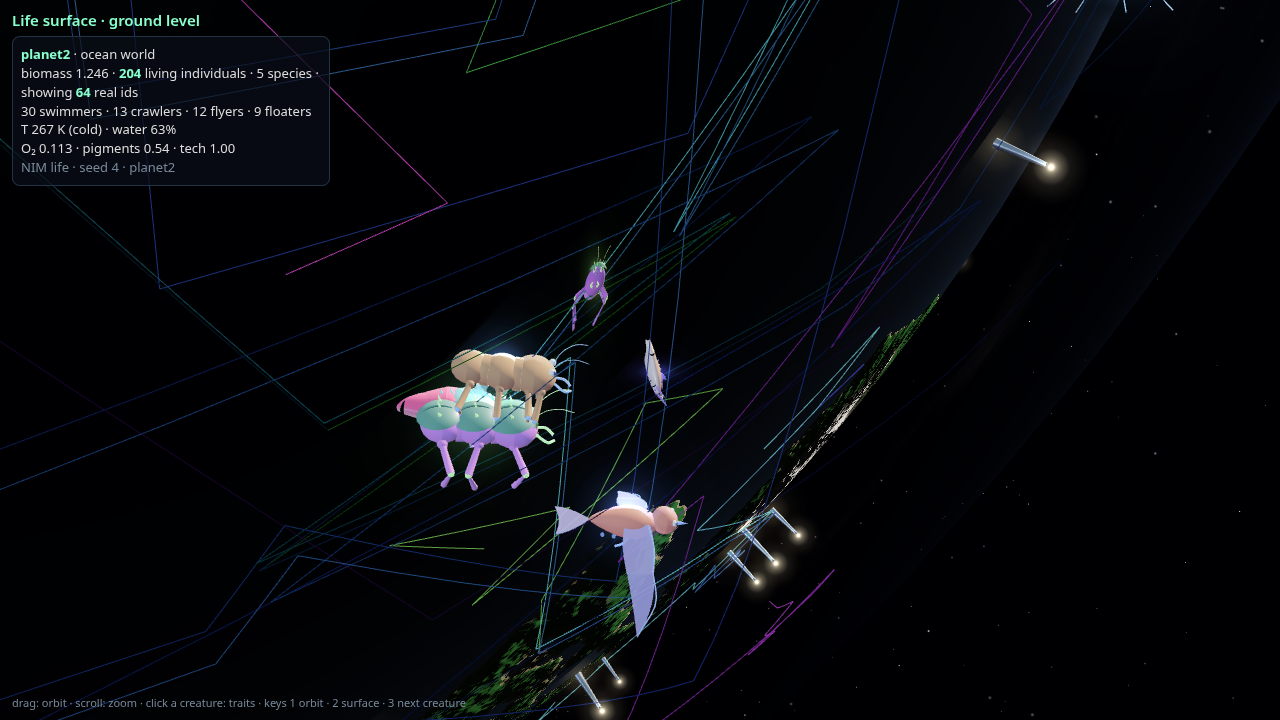
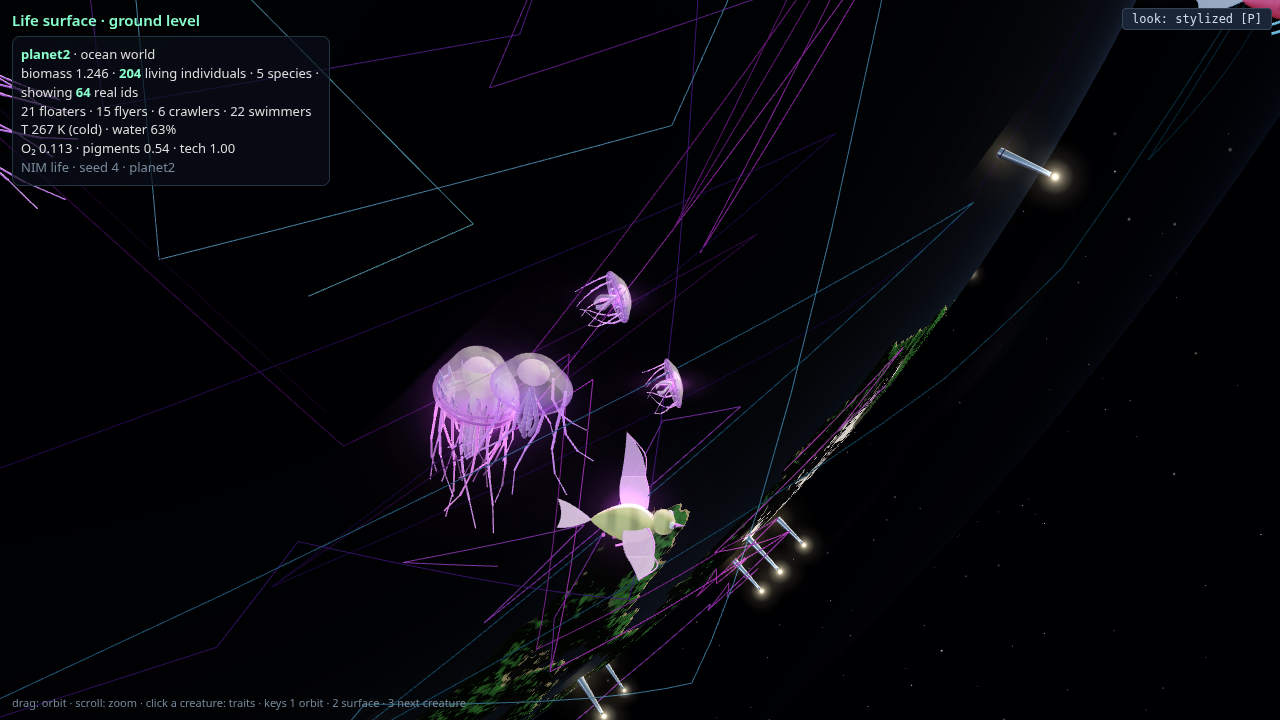
viewer: richer phenotypes + togglable photoreal look

diff --git a/universe/viewer_src/creature_mesh.js b/universe/viewer_src/creature_mesh.js
@@ -3,7 +3,25 @@
 // plan-specific materials (wet swimmers, dusty crawlers, membranous flyers, translucent floaters), secondary motion, blob contact shadows.
 window.NIMC=(function(){
 const V3=THREE.Vector3, TAU=Math.PI*2, col=a=>new THREE.Color(...a);
-let GT=null, ST=null;
+let GT=null, ST=null, LOOK=((typeof location!=='undefined'&&new URLSearchParams(location.search).get('look'))==='photo')?'photo':'stylized', Q=1, MO={}, DT={};
+// morph defaults (old reports without c.morph render exactly as Phase A-ish proportions)
+const MD={elong:1,girth:1,head:1,eye:1,fin:1,seg_space:1,seg_taper:.05,wing_span:1,wing_aspect:1,tail:1,shell_ridges:.5,shell_dome:1,spines:1,tent_len:1,bell_flat:1,stripe:0,stripe_freq:6,spot:0,skin_detail:.5};
+const q=n=>Math.max(3,Math.round(n*Q));
+// --- photo mode: procedural detail maps generated on the fly in a canvas (height field -> tangent-space normal + roughness) ---
+function detailTex(kind){if(DT[kind]) return DT[kind]; const N=256, h=new Float32Array(N*N), hs=(x,y)=>{const v=Math.sin(x*127.1+y*311.7)*43758.5453; return v-Math.floor(v);};
+ const vn=(x,y,f)=>{x*=f; y*=f; const xi=Math.floor(x), yi=Math.floor(y), xf=x-xi, yf=y-yi, w=t=>t*t*(3-2*t), m=f|0, H=(a,b)=>hs(((a%m)+m)%m,((b%m)+m)%m);
+  return H(xi,yi)+(H(xi+1,yi)-H(xi,yi))*w(xf)+(H(xi,yi+1)-H(xi,yi))*w(yf)+(H(xi,yi)-H(xi+1,yi)-H(xi,yi+1)+H(xi+1,yi+1))*w(xf)*w(yf);};
+ for(let y=0;y<N;y++) for(let x=0;x<N;x++){const u=x/N, v=y/N; let z=0;
+  if(kind==='scale'){const f=14, cx=u*f, cy=v*f+((Math.floor(u*f)%2)*.5), dx=cx-Math.floor(cx)-.5, dy=cy-Math.floor(cy)-.5; z=.75*Math.max(0,1-Math.sqrt(dx*dx+dy*dy)*1.9)+.25*vn(u,v,32);}
+  else if(kind==='vein'){z=Math.abs(Math.sin((u*9+.6*vn(u,v,6))*Math.PI))*.35+Math.pow(1-Math.abs(Math.sin((v*5+.4*vn(u,v,4))*Math.PI)),6)*.5+.15*vn(u,v,48);}
+  else {z=.5*vn(u,v,8)+.3*vn(u,v,24)+.2*vn(u,v,64);}   // 'skin': fine pores / wrinkles
+  h[y*N+x]=z;}
+ const mk=f=>{const c=document.createElement('canvas'); c.width=c.height=N; const g=c.getContext('2d'), im=g.createImageData(N,N); for(let i=0;i<N*N;i++){const o=f(i%N,(i/N)|0); im.data.set([o[0],o[1],o[2],255],4*i);} g.putImageData(im,0,0);
+  const t=new THREE.CanvasTexture(c); t.wrapS=t.wrapT=THREE.RepeatWrapping; return t;};
+ const H=(x,y)=>h[((y+N)%N)*N+((x+N)%N)], s=kind==='scale'?5:3;
+ const nrm=mk((x,y)=>{const dx=(H(x+1,y)-H(x-1,y))*s, dy=(H(x,y+1)-H(x,y-1))*s, l=Math.hypot(dx,dy,1); return [128-127*dx/l,128-127*dy/l,128+127/l];});
+ const rgh=mk((x,y)=>{const v=200-120*H(x,y); return [v,v,v];});
+ const rp={scale:[3,3],vein:[2,2],skin:[4,2]}[kind]; [nrm,rgh].forEach(t=>t.repeat.set(...rp)); return DT[kind]={nrm,rgh};}
 function radTex(stops){const c=document.createElement('canvas'); c.width=c.height=128; const g=c.getContext('2d'), gr=g.createRadialGradient(64,64,0,64,64,64); stops.forEach(([o,s])=>gr.addColorStop(o,s)); g.fillStyle=gr; g.fillRect(0,0,128,128); return new THREE.CanvasTexture(c);}
 function glowTex(){return GT||(GT=radTex([[0,'rgba(255,255,255,1)'],[.18,'rgba(255,255,255,.55)'],[.45,'rgba(255,255,255,.12)'],[1,'rgba(0,0,0,0)']]));}
 function shadowTex(){return ST||(ST=radTex([[0,'rgba(0,0,0,.85)'],[.5,'rgba(0,0,0,.45)'],[1,'rgba(0,0,0,0)']]));}
@@ -14,7 +32,9 @@ function spindle(len,rad,prof,seg=18,rs=14,flatY=1,base,belly){const pts=[]; for
  const g=new THREE.LatheGeometry(pts,rs); g.rotateX(Math.PI/2); g.scale(1,flatY,1); shade(g,base,belly); return g;}
 function shade(g,base,belly,dark=.55){const p=g.attributes.position, n=p.count, c=new Float32Array(n*3); g.computeBoundingBox(); const y0=g.boundingBox.min.y, y1=g.boundingBox.max.y;
  for(let i=0;i<n;i++){const t=(p.getY(i)-y0)/Math.max(1e-6,y1-y0), k=THREE.MathUtils.smoothstep(t,.25,.75); const f=dark+(1-dark)*k; // back darker -> lighter? countershade: back=base*f, belly=belly colour
-  const r=belly[0]+(base[0]*f-belly[0])*k, gg=belly[1]+(base[1]*f-belly[1])*k, b=belly[2]+(base[2]*f-belly[2])*k; c.set([r,gg,b],3*i);}
+  let pf=1; if(MO.stripe>0&&k>.3){const z=p.getZ(i)+(g.userData.z0||0); pf-=.38*MO.stripe*THREE.MathUtils.smoothstep(Math.sin(z*MO.stripe_freq*1.3+p.getX(i)*1.5),.15,.55)*k;}   // dorsal banding
+  if(MO.spot>0&&k>.35){const v=Math.sin(p.getX(i)*23.1+p.getZ(i)*17.3)*Math.sin(p.getY(i)*19.7-p.getZ(i)*11.9); if(v>.55) pf-=.45*MO.spot*k;}     // mottling
+  const r=(belly[0]+(base[0]*f-belly[0])*k)*pf, gg=(belly[1]+(base[1]*f-belly[1])*k)*pf, b=(belly[2]+(base[2]*f-belly[2])*k)*pf; c.set([r,gg,b],3*i);}
  g.setAttribute('color',new THREE.BufferAttribute(c,3)); g.computeVertexNormals(); return g;}
 function flatShape(pts,thick=0){const s=new THREE.Shape(); s.moveTo(pts[0][0],pts[0][1]); for(let i=1;i<pts.length;i+=2){const a=pts[i], b=pts[i+1]||pts[0]; s.quadraticCurveTo(a[0],a[1],b[0],b[1]);}
  return thick>0?new THREE.ExtrudeGeometry(s,{depth:thick,bevelEnabled:true,bevelThickness:thick*.5,bevelSize:thick*.6,bevelSegments:1,curveSegments:8}):new THREE.ShapeGeometry(s,8);}
@@ -33,77 +53,92 @@ function mats(c){const glow=c.glow>.05, A=col(c.accent), base=c.color, plan=c.pl
  const sclera=new THREE.MeshStandardMaterial({color:0xe8e0cc,roughness:.3});
  const mouth=new THREE.MeshStandardMaterial({color:0x1a0806,roughness:.7});
  const photo=new THREE.MeshBasicMaterial({color:A.clone().multiplyScalar(1.6)});
+ if(LOOK==='photo'){const d=MO.skin_detail, sk=detailTex(plan==='crawler'?'scale':'skin'), vn=detailTex('vein'), sc=detailTex('scale'), rep=(t,n)=>{t.repeat.set(n,n); return t;};
+  // skin: micro-normal + roughness variation; wet swimmers/floaters get a clearcoat that ignores the pores (smooth mucus layer), dry crawlers/flyers get sheen (fuzz/dust)
+  Object.assign(skin,{normalMap:sk.nrm,normalScale:new THREE.Vector2(plan==='crawler'?.25+.4*d:.5+1.1*d,plan==='crawler'?.25+.4*d:.5+1.1*d),roughnessMap:sk.rgh,roughness:Math.min(1,(P.roughness||.6)*1.15)});
+  if(plan==='crawler'||plan==='flyer'){skin.sheen=col(base).lerp(new THREE.Color(1,1,1),.5).multiplyScalar(.5);} else {skin.clearcoat=1; skin.clearcoatRoughness=.08;}
+  if(glow){skin.emissiveIntensity=.45*c.glow;}   // brighter subsurface-ish glow
+  Object.assign(memb,{normalMap:vn.nrm,normalScale:new THREE.Vector2(.6,.6),roughnessMap:vn.rgh,sheen:A.clone().multiplyScalar(.6),emissiveIntensity:glow?.9*c.glow:.12,opacity:plan==='flyer'?.85:.62});
+  Object.assign(shell,{normalMap:sc.nrm,normalScale:new THREE.Vector2(.55,.55),roughnessMap:sc.rgh,clearcoat:1,clearcoatRoughness:.12,metalness:.25});
+  Object.assign(acc,{normalMap:sk.nrm,normalScale:new THREE.Vector2(.4,.4),clearcoat:.6,clearcoatRoughness:.2});
+  [skin,memb,shell,acc].forEach(m=>{m.needsUpdate=true;});
+  eye.envMapIntensity=2.5; photo.color.multiplyScalar(1.4);}
  return {skin,acc,memb,shell,eye,sclera,mouth,photo,belly};}
 // --- builder: returns {body, limbs, shadow, tris}; caller adds body to its group g (shadow is a child of g, not body: not pickable) ---
-function build(c){const body=new THREE.Group(), limbs=[], M=mats(c), base=c.color, glow=c.glow>.05, L=Math.max(0,c.limbs|0), S=Math.max(1,c.segments|0);
+function build(c){Q=LOOK==='photo'?1.9:1; MO=Object.assign({},MD,c.morph||{}); const m_=MO; const body=new THREE.Group(), limbs=[], M=mats(c), base=c.color, glow=c.glow>.05, L=Math.max(0,c.limbs|0), S=Math.max(1,c.segments|0);
  const add=(geo,m,par=body,pos=[0,0,0],rot=[0,0,0],sc=[1,1,1])=>{const o=new THREE.Mesh(geo,m); o.position.set(...pos); o.rotation.set(...rot); o.scale.set(...sc); par.add(o); return o;};
  const grp=(par,pos=[0,0,0],rot=[0,0,0])=>{const q=new THREE.Group(); q.position.set(...pos); q.rotation.set(...rot); par.add(q); return q;};
- const eyes=(x,y,z,r,par=body)=>{for(const s of [-1,1]){add(new THREE.SphereGeometry(r,12,8),M.sclera,par,[s*x,y,z]); add(new THREE.SphereGeometry(r*.62,10,8),M.eye,par,[s*(x+r*.28),y+r*.12,z+r*.5]);}};
+ const eyes=(x,y,z,r,par=body)=>{r*=m_.eye; for(const s of [-1,1]){add(new THREE.SphereGeometry(r,q(12),q(8)),M.sclera,par,[s*x,y,z]); add(new THREE.SphereGeometry(r*.62,q(10),q(8)),M.eye,par,[s*(x+r*.28),y+r*.12,z+r*.5]);}};
  const photophores=(n,len,zc,y,x)=>{if(!glow) return; for(let i=0;i<n;i++) for(const s of [-1,1]) add(new THREE.SphereGeometry(.06,6,4),M.photo,body,[s*x*(1-.4*Math.abs(i/n-.5)),y,zc+len*(i/n-.5)]);};
  if(c.plan==='swimmer'){
   // fusiform body: head/front half rigid, rear split into 3 spine links for a travelling wave
-  const front=add(spindle(2.2,.72,u=>Math.pow(Math.sin(Math.PI*Math.min(1,.5+u*.5)),.6),16,16,.82,base,M.belly),M.skin,body,[0,0,.55]);
-  let par=body, z=-.55; const links=[];
-  for(let i=0;i<3;i++){const j=grp(par,[0,0,i?-.62:z]); const r0=.72*Math.pow(.72,i), r1=.72*Math.pow(.72,i+1);
-   add(spindle(.7,1,u=>r1+(r0-r1)*u,6,16,.82,base,M.belly),M.skin,j,[0,0,-.3]); links.push(j); par=j;}
-  const fl=grp(par,[0,0,-.62]); add(flatShape([[0,0],[.25,-.4],[.9,-.85],[.3,-.55],[0,-.35],[-.3,-.55],[-.9,-.85],[-.25,-.4],[0,0]],.03),M.memb,fl,[0,0,0],[Math.PI/2,0,0]); // forked fluke (vertical-ish)
+  const E=m_.elong, G=m_.girth, R0=.72*G, LL=.62*E;   // elong stretches the body/spine, girth fattens it
+  const front=add(spindle(2.2*E,R0,u=>Math.pow(Math.sin(Math.PI*Math.min(1,.5+u*.5)),.6),q(16),q(16),.82,base,M.belly),M.skin,body,[0,0,.55*E]);
+  let par=body, z=-.55*E; const links=[];
+  for(let i=0;i<3;i++){const j=grp(par,[0,0,i?-LL:z]); const r0=R0*Math.pow(.72,i), r1=R0*Math.pow(.72,i+1);
+   add(spindle(.7*E,1,u=>r1+(r0-r1)*u,q(6),q(16),.82,base,M.belly),M.skin,j,[0,0,-.3*E]); links.push(j); par=j;}
+  const fl=grp(par,[0,0,-LL]); fl.scale.setScalar(m_.tail); add(flatShape([[0,0],[.25,-.4],[.9,-.85],[.3,-.55],[0,-.35],[-.3,-.55],[-.9,-.85],[-.25,-.4],[0,0]],.03),M.memb,fl,[0,0,0],[Math.PI/2,0,0]); // forked fluke (vertical-ish)
   fl.rotation.z=Math.PI/2;
   links.forEach((o,i)=>limbs.push({o,k:'spine',i})); limbs.push({o:fl,k:'fluke'});
-  add(flatShape([[0,0],[-.2,.5],[-.7,.55],[-.45,.2],[-.8,0]],.02),M.memb,body,[0,.5,.1],[0,Math.PI/2,0]);   // dorsal fin
-  for(let i=0;i<L;i++){const s=i%2?1:-1, row=Math.floor(i/2), j=grp(body,[s*.58,-.22,.75-.55*row],[0,0,0]);
-   add(flatShape([[0,0],[.35,.1],[.85,-.25],[.5,-.3],[0,-.18]],.015),M.memb,j,[0,0,0],[Math.PI/2,0,s<0?Math.PI:0],[1-.15*row,1,1]); limbs.push({o:j,k:'fin',s,i:row});}
-  eyes(.42,.18,1.25,.13); add(new THREE.TorusGeometry(.16,.03,6,12,Math.PI),M.mouth,body,[0,-.12,1.62],[0,0,Math.PI],[1,.6,1]);
+  add(flatShape([[0,0],[-.2,.5],[-.7,.55],[-.45,.2],[-.8,0]],.02),M.memb,body,[0,.5*G,.1],[0,Math.PI/2,0],[1,m_.fin,m_.fin]);   // dorsal fin (fin morph)
+  for(let i=0;i<L;i++){const s=i%2?1:-1, row=Math.floor(i/2), j=grp(body,[s*.58*G,-.22,(.75-.55*row)*E],[0,0,0]);
+   add(flatShape([[0,0],[.35,.1],[.85,-.25],[.5,-.3],[0,-.18]],.015),M.memb,j,[0,0,0],[Math.PI/2,0,s<0?Math.PI:0],[(1-.15*row)*m_.fin,m_.fin,1]); limbs.push({o:j,k:'fin',s,i:row});}
+  eyes(.42*G,.18,1.25*E,.13); add(new THREE.TorusGeometry(.16,.03,6,12,Math.PI),M.mouth,body,[0,-.12,1.62*E],[0,0,Math.PI],[1,.6,1]);
   for(const s of [-1,1]) for(let g=0;g<3;g++) add(new THREE.TorusGeometry(.32,.012,4,10,Math.PI*.6),M.mouth,body,[s*.55,0,.85-.1*g],[0,s*Math.PI/2,-.9],[1,1,1]);  // gill slits
   photophores(6,1.8,.3,-.32,.5);}
  else if(c.plan==='crawler'){
-  const segs=[]; let par=body; const seglen=.95;
-  for(let i=0;i<S;i++){const r=.72-.05*i, j=grp(par,[0,0,i?-seglen:1.0]); add(new THREE.SphereGeometry(r,18,12),M.skin,j,[0,.08,0],[0,0,0],[1.05,.7,.95]).geometry=shade(new THREE.SphereGeometry(r,18,12),base,M.belly,.6);
-   if(i>0) add(new THREE.CylinderGeometry(r*.75,r*.75,.35,14),M.skin,j,[0,.06,seglen*.5],[Math.PI/2,0,0],[1.05,.7,1]).geometry=shade(new THREE.CylinderGeometry(r*.75,r*.75,.35,14),base,M.belly,.5);  // soft intersegment membrane
+  const segs=[]; let par=body; const seglen=.95*m_.seg_space, G=m_.girth;
+  for(let i=0;i<S;i++){const r=(.72-m_.seg_taper*i)*(i?1:m_.head)*G, j=grp(par,[0,0,i?-seglen:1.0]); add(new THREE.SphereGeometry(r,q(18),q(12)),M.skin,j,[0,.08,0],[0,0,0],[1.05,.7,.95*m_.elong]).geometry=shade(new THREE.SphereGeometry(r,q(18),q(12)),base,M.belly,.6);
+   if(i>0) add(new THREE.CylinderGeometry(r*.75,r*.75,.35*m_.seg_space,q(14)),M.skin,j,[0,.06,seglen*.5],[Math.PI/2,0,0],[1.05,.7,1]).geometry=shade(new THREE.CylinderGeometry(r*.75,r*.75,.35*m_.seg_space,q(14)),base,M.belly,.5);  // soft intersegment membrane
    segs.push(j); limbs.push({o:j,k:'seg',i}); par=j;}
   const head=segs[0]; eyes(.28,.38,.52,.12,head);
   for(const s of [-1,1]){add(tube([[s*.15,-.05,.6],[s*.32,-.2,.95],[s*.12,-.28,1.15]],.045,8,5),M.acc,head);             // mandibles
-   const an=grp(head,[s*.15,.45,.55]); add(tube([[0,0,0],[s*.15,.33,.25],[s*.33,.5,.65],[s*.45,.45,1.0]],.014,14,4),M.acc,an); limbs.push({o:an,k:'ant',s});}
+   const an=grp(head,[s*.15,.45,.55]); an.scale.setScalar(m_.fin); add(tube([[0,0,0],[s*.15,.33,.25],[s*.33,.5,.65],[s*.45,.45,1.0]],.014,14,4),M.acc,an); limbs.push({o:an,k:'ant',s});}
   for(let i=0;i<L;i++){const s=i%2?1:-1, pair=Math.floor(i/2), np=Math.max(1,Math.ceil(L/2)); const si=Math.min(S-1,Math.floor(pair*S/np)), seg=segs[si];
-   const hip=grp(seg,[s*.62,-.12,(np>S?.25-.5*((pair*S/np)%1):0)]), r=.11;
+   const hip=grp(seg,[s*.62*G,-.12,(np>S?.25-.5*((pair*S/np)%1):0)]), r=.11;
    add(new THREE.SphereGeometry(r*1.25,10,8),M.skin,hip).geometry=shade(new THREE.SphereGeometry(r*1.25,10,8),base,M.belly,.6);
    const fem=grp(hip,[0,0,0],[0,0,s*1.1]); add(taper(.85,r,r*.8),M.skin,fem).geometry=shade(taper(.85,r,r*.8),base,M.belly,.7);
    const knee=grp(fem,[0,-.85,0],[0,0,-s*1.7]); add(new THREE.SphereGeometry(r*.85,8,6),M.acc,knee); add(taper(1.0,r*.8,r*.3),M.skin,knee).geometry=shade(taper(1.0,r*.8,r*.3),base,M.belly,.7);
    limbs.push({o:fem,k:'leg',s,i:pair,knee,kr:-s*1.7});}
   if(glow) for(const sg of segs) for(const s of [-1,1]) add(new THREE.SphereGeometry(.07,6,4),M.photo,sg,[s*.55,.1,0]);}
  else if(c.plan==='flyer'){
-  add(spindle(2.0,.5,u=>Math.pow(Math.sin(Math.PI*u),.7)*(u>.7?1:.6+.4*u/.7),16,14,.9,base,M.belly),M.skin,body);
-  add(new THREE.SphereGeometry(.36,16,12),M.skin,body,[0,.12,1.05]).geometry=shade(new THREE.SphereGeometry(.36,16,12),base,M.belly,.6);
-  add(new THREE.ConeGeometry(.09,.45,10),M.acc,body,[0,.05,1.5],[Math.PI/2,0,0]);   // beak
-  eyes(.22,.24,1.25,.09);
-  for(const s of [-1,1]){const sh=grp(body,[s*.32,.18,.25]); const inner=new THREE.Group(); sh.add(inner);
+  const E=m_.elong, G=m_.girth, WS=m_.wing_span, WA=m_.wing_aspect;   // aspect>1: long narrow (albatross); <1: broad (bat/butterfly)
+  add(spindle(2.0*E,.5*G,u=>Math.pow(Math.sin(Math.PI*u),.7)*(u>.7?1:.6+.4*u/.7),q(16),q(14),.9,base,M.belly),M.skin,body);
+  add(new THREE.SphereGeometry(.36*m_.head,q(16),q(12)),M.skin,body,[0,.12,1.05*E]).geometry=shade(new THREE.SphereGeometry(.36*m_.head,q(16),q(12)),base,M.belly,.6);
+  add(new THREE.ConeGeometry(.09,.45,10),M.acc,body,[0,.05,1.05*E+.45*m_.head],[Math.PI/2,0,0]);   // beak
+  eyes(.22*m_.head,.24,1.05*E+.2*m_.head,.09);
+  for(const s of [-1,1]){const sh=grp(body,[s*.32*G,.18,.25]); const inner=new THREE.Group(); inner.scale.set(WS*Math.sqrt(WA),1,1/Math.sqrt(WA)); sh.add(inner);
    add(flatShape([[0,.35],[.6,.5],[1.2,.35],[1.25,-.05],[1.2,-.3],[.5,-.45],[0,-.3]],.02),M.memb,inner,[0,0,0],[Math.PI/2,0,0],[s,1,1]);
    const el=grp(inner,[s*1.2,0,0]); add(flatShape([[0,.35],[.7,.45],[1.5,-.1],[.8,-.15],[0,-.3]],.015),M.memb,el,[0,0,0],[Math.PI/2,0,0],[s,1,1]);
    add(tube([[0,0,.3],[s*.6,0,.42],[s*1.2,0,.36]],.028,8,5),M.acc,inner); add(tube([[0,0,.36],[s*.7,0,.4],[s*1.45,0,-.08]],.02,8,5),M.acc,el);   // leading-edge bone
    limbs.push({o:sh,k:'wing',s,el});}
-  const tf=grp(body,[0,0,-.95]); add(flatShape([[0,0],[-.45,-.5],[-.5,-.9],[0,-.7],[.5,-.9],[.45,-.5],[0,0]],.015),M.memb,tf,[0,0,0],[Math.PI/2,0,0]); limbs.push({o:tf,k:'tailfan'});
+  const tf=grp(body,[0,0,-.95*E]); tf.scale.setScalar(m_.tail); add(flatShape([[0,0],[-.45,-.5],[-.5,-.9],[0,-.7],[.5,-.9],[.45,-.5],[0,0]],.015),M.memb,tf,[0,0,0],[Math.PI/2,0,0]); limbs.push({o:tf,k:'tailfan'});
   for(const s of [-1,1]) add(tube([[s*.15,-.3,.2],[s*.2,-.6,0],[s*.2,-.7,-.2]],.035,6,5),M.acc,body);   // tucked legs
   photophores(4,1.2,0,-.25,.35);}
  else {  // floater: translucent lathe bell with frilled rim, glowing core, jointed trailing tentacles + oral arms
-  const prof=[]; for(let i=0;i<=16;i++){const u=i/16, a=u*Math.PI*.55; prof.push(new THREE.Vector2(Math.max(1e-3,Math.sin(a)*(1+.08*Math.sin(u*9))),.9*Math.cos(a)-.1));}
+  const prof=[]; for(let i=0;i<=16;i++){const u=i/16, a=u*Math.PI*.55; prof.push(new THREE.Vector2(Math.max(1e-3,Math.sin(a)*(1+.08*Math.sin(u*9))),(.9*Math.cos(a)-.1)/m_.bell_flat));}
   for(let i=0;i<=4;i++){const u=i/4; prof.push(new THREE.Vector2(Math.sin(Math.PI*.55)*(1-.12*u),.9*Math.cos(Math.PI*.55)-.1-.06*u));}
-  const bg=new THREE.LatheGeometry(prof,28); shade(bg,base,c.accent,.9);
+  const bg=new THREE.LatheGeometry(prof,q(28)); shade(bg,base,c.accent,.9);
   const bellM=new THREE.MeshPhysicalMaterial({color:0xffffff,vertexColors:true,emissive:col(c.accent),emissiveIntensity:.18+.6*c.glow,transparent:true,opacity:.55,roughness:.08,clearcoat:1,side:THREE.DoubleSide,depthWrite:false});
+  if(LOOK==='photo'){const vt=detailTex('vein'); Object.assign(bellM,{normalMap:vt.nrm,normalScale:new THREE.Vector2(.8,.8),emissiveIntensity:.35+1.0*c.glow,opacity:.42,clearcoatRoughness:.02,sheen:col(c.accent).multiplyScalar(.8)});}
   const bell=add(bg,bellM,body,[0,.6,0]); limbs.push({o:bell,k:'bell'});
   add(new THREE.SphereGeometry(.42,16,12),new THREE.MeshPhysicalMaterial({color:col(c.accent),emissive:col(c.accent),emissiveIntensity:.5+1.6*c.glow,roughness:.3}),bell,[0,.35,0],[0,0,0],[1,.7,1]);   // gonad/core
   const nt=6+S;
   for(let i=0;i<nt;i++){const a=i/nt*TAU; let par=grp(bell,[.92*Math.cos(a),-.2,.92*Math.sin(a)]); const chain=[];
-   for(let k=0;k<4;k++){const j=grp(par,k?[0,-.5,0]:[0,0,0]); add(taper(.52,.045*(1-.2*k),.045*(1-.2*(k+1))+.005,5),M.acc,j); chain.push(j); par=j;}
+   const TL=.5*m_.tent_len; for(let k=0;k<4;k++){const j=grp(par,k?[0,-TL,0]:[0,0,0]); add(taper(TL+.02,.045*(1-.2*k),.045*(1-.2*(k+1))+.005,5),M.acc,j); chain.push(j); par=j;}
    limbs.push({o:chain[0],k:'tent',a,chain});}
   for(let i=0;i<4;i++){const a=i/4*TAU+.4; add(tube([[0,-.1,0],[.15*Math.cos(a),-.6,.15*Math.sin(a)],[.3*Math.cos(a),-1.1,.25*Math.sin(a)],[.15*Math.cos(a),-1.5,.1*Math.sin(a)]],.07,12,6),M.memb,bell);}}   // oral arms
  if(c.shell){const k=c.shell_k||.5;
   if(c.plan==='crawler'){body.traverse(()=>{}); let par=body; const segs=limbs.filter(l=>l.k==='seg').map(l=>l.o);
-   segs.forEach((sg,i)=>{const r=.74-.05*i; add(new THREE.SphereGeometry(r,18,8,0,TAU,0,1.15),M.shell,sg,[0,.16,-.05],[-.12,0,0],[1.12,.72,1.05]);
-    add(new THREE.TorusGeometry(r*.92,.03,5,20,Math.PI),M.shell,sg,[0,.12,-.05],[0,Math.PI/2,0],[1,.9,1.2]);   // plate ridge
-    const ns=Math.round(1+2*k); for(let q=0;q<ns;q++){const s=ns>1?(q/(ns-1)-.5)*.9:0; add(new THREE.ConeGeometry(.07+.06*k,.22+.35*k,10),M.acc,sg,[s*r,.16+.62*r*Math.cos(s),-.05],[-.35,0,-s*1.1]);}});}
+   segs.forEach((sg,i)=>{const r=(.74-m_.seg_taper*i)*(i?1:m_.head)*m_.girth; add(new THREE.SphereGeometry(r,q(18),q(8),0,TAU,0,1.15),M.shell,sg,[0,.16,-.05],[-.12,0,0],[1.12,.72*m_.shell_dome,1.05*m_.elong]);
+    const nrd=1+Math.round(3*m_.shell_ridges); for(let rr=0;rr<nrd;rr++)
+    add(new THREE.TorusGeometry(r*.92,.03,5,q(20),Math.PI),M.shell,sg,[0,.12,-.05+(nrd>1?(rr/(nrd-1)-.5)*.5*r:0)],[0,Math.PI/2,0],[1,.9*m_.shell_dome,1.2]);   // plate ridges (shell_ridges)
+    const ns=Math.round(1+2*k); for(let q=0;q<ns;q++){const s=ns>1?(q/(ns-1)-.5)*.9:0; add(new THREE.ConeGeometry(.07+.06*k,(.22+.35*k)*m_.spines,10),M.acc,sg,[s*r,.16+.62*r*Math.cos(s),-.05],[-.35,0,-s*1.1]);}});}
   else if(c.plan==='floater'){const bell=limbs.find(l=>l.k==='bell').o, nr=Math.round(8+8*k); for(let i=0;i<nr;i++){const a=i/nr*TAU; add(new THREE.ConeGeometry(.04+.03*k,.12+.2*k,8),M.shell,bell,[.97*Math.cos(a)*.98,.05,.97*Math.sin(a)*.98],[Math.sin(a)*.5,0,-Math.cos(a)*.5]);}   // stiff rim teeth
    add(new THREE.TorusGeometry(.97,.035,6,40),M.shell,bell,[0,-.12,0],[Math.PI/2,0,0]);}
-  else {const fl=c.plan==='flyer'; add(new THREE.SphereGeometry(1,24,10,0,TAU,0,1.25),M.shell,body,[0,fl?.12:.1,fl?.0:.15],[0,0,0],fl?[.42,.4,.85]:[.66,.52,1.1]);   // dorsal carapace
-   const nr=Math.round(3+4*k); for(let i=0;i<nr;i++){const t=i/(nr-1||1); add(new THREE.ConeGeometry(.04+.04*k,.12+.25*k,10),M.acc,body,[0,(fl?.48:.55)+.08*Math.sin(Math.PI*t),(fl?.7:.9)-(fl?1.3:1.6)*t],[-.4,0,0]);}}}
+  else {const fl=c.plan==='flyer', D=m_.shell_dome, E=m_.elong, G=m_.girth; add(new THREE.SphereGeometry(1,q(24),q(10),0,TAU,0,1.25),M.shell,body,[0,fl?.12:.1,fl?.0:.15],[0,0,0],fl?[.42*G,.4*D,.85*E]:[.66*G,.52*D,1.1*E]);   // dorsal carapace
+   const nrd=Math.round(1+4*m_.shell_ridges); for(let rr=0;rr<nrd;rr++){const t=(rr+.5)/nrd; add(new THREE.TorusGeometry(1,.022,4,q(16),Math.PI),M.shell,body,[0,fl?.12:.1,((fl?.85:1.1)*(1-2*t)*.8)*E+(fl?0:.15)],[0,Math.PI/2,0],[1,(fl?.4:.52)*D*Math.sqrt(1-Math.pow(1-2*t,2)*.64)*1.02,(fl?.42:.66)*G*Math.sqrt(1-Math.pow(1-2*t,2)*.64)*1.02]);}   // transverse carapace ridges
+   const nr=Math.round(3+4*k); for(let i=0;i<nr;i++){const t=i/(nr-1||1); add(new THREE.ConeGeometry(.04+.04*k,(.12+.25*k)*m_.spines,10),M.acc,body,[0,((fl?.48:.55)+.08*Math.sin(Math.PI*t))*D,((fl?.7:.9)-(fl?1.3:1.6)*t)*E+(fl?0:.0)],[-.4,0,0]);}}}
  if(glow){const s=spr(col(c.accent),3.2*c.glow+1.2,.55+.4*c.glow); s.position.y=.3; body.add(s); const s2=spr(col(c.accent),9*c.glow+2,.18*c.glow); s2.position.y=.2; body.add(s2);}
  const shadow=new THREE.Mesh(new THREE.PlaneGeometry(1,1),new THREE.MeshBasicMaterial({map:shadowTex(),transparent:true,depthWrite:false,opacity:.6,polygonOffset:true,polygonOffsetFactor:-2}));
  shadow.rotation.x=-Math.PI/2; shadow.userData.noPick=true; shadow.renderOrder=-1; const sz={swimmer:[1.8,4.2],crawler:[2.2,1.4+S*1.0],flyer:[5,2.4],floater:[2.4,2.4]}[c.plan]||[2,3]; shadow.scale.set(sz[0],sz[1],1);
@@ -145,5 +180,14 @@ function tower(rnd){const g=new THREE.Group(), h=2.4+3*rnd(); const m=new THREE.
  const wm=new THREE.MeshBasicMaterial({color:new THREE.Color(1.6,1.15,.6)}); for(let i=1;i<4;i++){const b=new THREE.Mesh(new THREE.CylinderGeometry(.37-.2*i/4*1.0,.37-.2*i/4,.08,10,1,true),wm); b.position.y=h*i/4; b.scale.setScalar(.75+.15*(4-i)/3); g.add(b);}
  const bc=spr(new THREE.Color(1,.82,.5),5.5,1); bc.position.y=h+.3; g.add(bc); const core=spr(new THREE.Color(1,.95,.85),1.6,1); core.position.y=h+.3; g.add(core);
  const pool=spr(new THREE.Color(1,.7,.35),9,.35); pool.position.y=.2; g.add(pool); return g;}
-return {build,animate,placeShadow,lights,tower,spr,glowTex};
+function getLook(){return LOOK;}
+function setLook(l){LOOK=l==='photo'?'photo':'stylized'; return LOOK;}
+// photo-mode lighting tweak: slightly hotter exposure + brighter env reflections (caller passes renderer/scene)
+function applyLookLights(renderer){renderer.toneMappingExposure=LOOK==='photo'?1.12:1.0;}
+// shared HUD toggle button (top-right) + key P; onChange(look) is the viewer's rebuild hook
+function lookUI(onChange){const b=document.createElement('button'); b.id='lookbtn'; b.style.cssText='position:fixed;top:8px;right:8px;z-index:20;background:#1a2638;color:#cde;border:1px solid #345;border-radius:4px;padding:3px 9px;font:12px monospace;cursor:pointer';
+ const lab=()=>{b.textContent='look: '+(LOOK==='photo'?'PHOTO':'stylized')+' [P]';}; lab(); document.body.appendChild(b);
+ const flip=()=>{setLook(LOOK==='photo'?'stylized':'photo'); lab(); onChange(LOOK);}; b.onclick=flip;
+ addEventListener('keydown',e=>{if(e.key==='p'||e.key==='P') flip();}); return {refresh:lab};}
+return {build,animate,placeShadow,lights,tower,spr,glowTex,getLook,setLook,applyLookLights,lookUI};
 })();

diff --git a/universe/viewer_src/life.js b/universe/viewer_src/life.js
@@ -45,6 +45,12 @@ function pathAt(P,u){u=Math.min(1,Math.max(0,u))*(P.length-1); const i=Math.min(
 const REPLAY=10;   // time units for one replay of the recorded path (oldest sample -> current position), then hold
 function replayU(t){return Math.min(1,Math.max(0,(t-1)/REPLAY));}
 for(let k=0;k<C.length;k++) crs.push(creature(k));
+// look toggle (stylized default | photo): rebuild every creature body in place with the shared builder
+function setLook(l){NIMC.setLook(l); NIMC.applyLookLights(renderer); tris=0; pickables.length=0;
+ crs.forEach((cr,k)=>{cr.g.remove(cr.body); cr.g.remove(cr.shadow); cr.body.traverse(o=>{if(o.geometry)o.geometry.dispose(); if(o.material)o.material.dispose();});
+  const B=NIMC.build(cr.c); cr.body=B.body; cr.limbs=B.limbs; cr.shadow=B.shadow; cr.g.add(B.body); cr.g.add(B.shadow); tris+=B.tris; B.body.traverse(o=>{if(o.isMesh){o.userData.k=k; pickables.push(o);}});});
+ setTime(T); if(lookBtn) lookBtn.refresh(); return NIMC.getLook();}
+let lookBtn=null; NIMC.applyLookLights(renderer);
 // tech: lit structures + city lights near herds of the most mobile cohort
 const tech=[]; if(D.tech>0){let x=99; const rnd=()=>{x=(x*16807)%2147483647; return x/2147483647;}; const base=crs[0].p0;
  for(let i=0;i<Math.round(14*D.tech);i++){const p=base.clone().add(new V3(rnd()-.5,rnd()-.5,rnd()-.5).multiplyScalar(.6)).normalize();
@@ -83,6 +89,6 @@ function follow(){if(mode==='creature'&&sel>=0){const p=crs[sel].g.position; con
 function render(){follow(); controls.update(); const dist=camera.position.length()-1; camera.near=Math.max(.0003,dist*.02); camera.updateProjectionMatrix(); renderer.render(scene,camera);}
 let playing=true, last=performance.now();
 function loop(now){requestAnimationFrame(loop); if(playing){setTime(T+Math.min(.05,(now-last)/1000));} last=now; render();}
-setTime(0); view('orbit'); requestAnimationFrame(loop);
-window.NIM={ready:true, view, setTime, render, still(){playing=false;}, play(){playing=true;}, creatures:C, tris:()=>tris, pos:i=>crs[i].g.position.toArray(), cam:(p,t)=>{camera.position.set(...p); controls.target.set(...t); render();}};
+setTime(0); view('orbit'); lookBtn=NIMC.lookUI(()=>setLook(NIMC.getLook())); requestAnimationFrame(loop);
+window.NIM={ready:true, view, setLook, look:()=>NIMC.getLook(), setTime, render, still(){playing=false;}, play(){playing=true;}, creatures:C, tris:()=>tris, pos:i=>crs[i].g.position.toArray(), cam:(p,t)=>{camera.position.set(...p); controls.target.set(...t); render();}};
 })();

diff --git a/universe/viewer_src/life_live.js b/universe/viewer_src/life_live.js
@@ -115,6 +115,10 @@ function animate(now){requestAnimationFrame(animate); const t=(now-t0)/1000;
   NIMC.animate(cr,ph,t); NIMC.placeShadow(cr,h,SC*c.size*Math.max(.01,s));}
  if(sel!=null&&crs.get(sel)){const p=crs.get(sel).g.position, dl=p.clone().sub(controls.target); controls.target.add(dl); camera.position.add(dl); controls.minDistance=.002;}
  [core,cloud].forEach(m=>{if(m)m.material.uniforms.uTime.value=t;}); controls.update(); const dist=camera.position.length()-1; camera.near=Math.max(.0003,dist*.02); camera.updateProjectionMatrix(); renderer.render(scene,camera);}
+// look toggle (?look=photo, key P, HUD button): rebuild live creature bodies in place
+function setLook(l){NIMC.setLook(l); NIMC.applyLookLights(renderer); for(const cr of crs.values()){cr.g.remove(cr.body); cr.g.remove(cr.shadow); cr.body.traverse(o=>{if(o.geometry)o.geometry.dispose(); if(o.material)o.material.dispose();});
+  const B=NIMC.build(cr.c); cr.body=B.body; cr.limbs=B.limbs; cr.shadow=B.shadow; cr.g.add(B.body); cr.g.add(B.shadow); B.body.traverse(o=>{if(o.isMesh) o.userData.id=cr.c.id;});} lookBtn.refresh(); return NIMC.getLook();}
+NIMC.applyLookLights(renderer); const lookBtn=NIMC.lookUI(()=>setLook(NIMC.getLook()));
 requestAnimationFrame(animate);
-window.NIM={ready:true, last:()=>last, raw:()=>lastRaw, focus:()=>focus, setFocus, control, ticks:()=>nTicks, n:()=>crs.size, cam:(p,t)=>{camera.position.set(...p); controls.target.set(...t);}, select:showSel};
+window.NIM={ready:true, setLook, look:()=>NIMC.getLook(), last:()=>last, raw:()=>lastRaw, focus:()=>focus, setFocus, control, ticks:()=>nTicks, n:()=>crs.size, cam:(p,t)=>{camera.position.set(...p); controls.target.set(...t);}, select:showSel};
 })();

diff --git a/universe/leaves/creature_look.py b/universe/leaves/creature_look.py
@@ -15,18 +15,38 @@ def cohorts_from_report(pl, LP, seed, k=8):
         out.append(dict(n=float(cr.get("n", 1.))*float(r.dirichlet(np.ones(k))[0] if i else .4), traits=tr, synthetic=bool(i)))
     return out
 
-def phenotype(tr, seed, i, pig=0., tech=0., ptype="ocean"):
-    r = _rng(seed, i); mob, met, rep, hard = (tr[t] for t in TRAITS)
+MORPH_DEFAULTS = dict(elong=1., girth=1., head=1., eye=1., fin=1., seg_space=1., seg_taper=.05, wing_span=1., wing_aspect=1., tail=1.,
+                      shell_ridges=.5, shell_dome=1., spines=1., tent_len=1., bell_flat=1., stripe=0., stripe_freq=6., spot=0., skin_detail=.5)
+
+def morph(tr, rs, ri, plan):
+    """Continuous morph fields (viewer-only). rs = species rng (shared by the herd), ri = individual rng (small jitter).
+    Traits set the trend, the species draw sets the 'family look', individuals vary ~5%."""
+    mob, met, rep, hard = (float(tr[t]) for t in ("mobility", "metabolism_eff", "reproduction_rate", "hardiness")); S = {k: rs.normal() for k in MORPH_DEFAULTS}; I = {k: ri.normal() for k in MORPH_DEFAULTS}
+    v = lambda k, base, sp, ind=.05, lo=.4, hi=2.2: float(np.clip(base*(1+sp*S[k]+ind*I[k]), lo, hi))
+    return dict(elong=v("elong", .8+.45*mob, .12), girth=v("girth", 1.25-.4*mob+.2*met, .1), head=v("head", .9+.25*met, .1), eye=v("eye", 1.3-.5*met+.3*(plan == "floater"), .15),
+                fin=v("fin", .7+.6*mob, .15), seg_space=v("seg_space", .8+.35*mob, .1, lo=.6, hi=1.5), seg_taper=float(np.clip(.03+.05*rep+.02*S["seg_taper"], 0, .12)),
+                wing_span=v("wing_span", .75+.6*mob, .12), wing_aspect=v("wing_aspect", .8+.8*mob-.3*met, .15, lo=.5, hi=2.), tail=v("tail", .8+.4*mob, .15),
+                shell_ridges=float(np.clip(hard+.15*S["shell_ridges"]+.03*I["shell_ridges"], 0, 1)), shell_dome=v("shell_dome", .8+.5*hard, .12, lo=.5, hi=1.6),
+                spines=v("spines", .6+.8*hard, .2, lo=.2), tent_len=v("tent_len", .8+.5*met+.3*(1-mob), .15), bell_flat=v("bell_flat", 1., .15, lo=.6, hi=1.5),
+                stripe=float(np.clip(.5+.35*S["stripe"], 0, 1) if S["spot"] < .3 else 0.), stripe_freq=float(np.clip(6+2.5*S["stripe_freq"], 2, 12)),
+                spot=float(np.clip(.6+.3*S["spot"], 0, 1) if S["spot"] >= .3 else 0.), skin_detail=float(np.clip(.5+.3*hard+.15*S["skin_detail"], 0, 1)))
+
+def phenotype(tr, seed, i, pig=0., tech=0., ptype="ocean", species_id=None):
+    """species_id given -> plan, palette and morph family drawn from a species rng (herds look related); id rng adds jitter."""
+    ri = _rng(seed, i); rs = _rng(seed, 9*10**6 + int(species_id)) if species_id is not None else ri
+    r = rs; mob, met, rep, hard = (tr[t] for t in TRAITS)
     water = ptype in ("ocean", "terran")
     w = np.array([(.8 if water else .1)*(.5+mob), (1.2-mob)*(.6 if water else 1.2), max(0, mob-.45)*2.0, (.6 if water else .1)*(1.1-mob)])
     plan = ["swimmer", "crawler", "flyer", "floater"][int(r.choice(4, p=w/w.sum()))]
     size = float((.6+1.1*met)*(1.3-.6*rep)*(.8+.4*r.random()))
-    hue = (.33 + .45*pig + .7*r.random()) % 1.; sat = .35+.6*min(1, pig*1.4)
+    size = size*(1+.08*ri.normal()) if species_id is not None else size
+    hue = (.33 + .45*pig + .7*r.random() + (.025*ri.normal() if species_id is not None else 0)) % 1.; sat = .35+.6*min(1, pig*1.4)
     col = colorsys.hsv_to_rgb(hue, sat, .55+.4*r.random()); col2 = colorsys.hsv_to_rgb((hue+.5+.1*r.random()) % 1, sat, .9)
     return dict(plan=plan, size=size, limbs=int(0 if plan == "floater" else 2+2*round(2*mob+2*r.random())),
                 segments=int(2+round(3*rep+r.random())), shell=bool(hard > .45 + .1*r.random()), shell_k=float(hard),
                 color=[float(c) for c in col], accent=[float(c) for c in col2], glow=float(min(1, pig*1.6*(.4+met)) if r.random() < .3+pig else 0.),
-                speed=float(.2+1.6*mob*(.8+.4*r.random())), wobble=float(r.random()*6.283), tech=float(tech))
+                speed=float(.2+1.6*mob*(.8+.4*r.random())), wobble=float(r.random()*6.283), tech=float(tech),
+                morph=morph(tr, _rng(seed, 9*10**6+int(species_id)+1) if species_id is not None else _rng(seed, 3*10**6+i), _rng(seed, 8*10**6+i), plan))
 
 def creatures(cohorts, seed, biosign, ptype, max_total=60):
     """List of individual creatures (JSON-serialisable): each cohort contributes individuals proportional to n (>=2)."""
@@ -51,7 +71,7 @@ def creatures_from_individuals(inds, seed, biosign, ptype, max_show=64):
     out = []
     for d in inds:
         tr = {t: float(d["traits"][t]) for t in TRAITS}; sp = int(d.get("species_id", 0))
-        base = phenotype(tr, seed, 10**6 + int(d["id"]), pig, tech, ptype)
+        base = phenotype(tr, seed, 10**6 + int(d["id"]), pig, tech, ptype, species_id=sp)
         r = _rng(seed, 7*10**6 + int(d["id"]))
         if d.get("lat") is not None and d.get("lon") is not None: lat, lon, real = float(d["lat"]), float(d["lon"]), True   # simulated position
         else:                                   # legacy reports without positions: species home-range herd placement

diff --git a/universe/viewer_life_shots.py b/universe/viewer_life_shots.py
@@ -1,9 +1,12 @@
-"""Stills + optional tour for the life viewer. usage: python -m universe.viewer_life_shots [--seed 4] [--tour 72]"""
-import argparse, asyncio, os, subprocess, shutil
+"""Stills + optional tour for the life viewer.
+usage: python -m universe.viewer_life_shots [--seed 4] [--tour 72] [--look stylized|photo|both] [--tour-look stylized|photo|both]
+stylized stills keep the Phase A names (life_surface_seed4_NN_*.png); photo stills are life_surface_seed4_photo_NN_*.png;
+tour: life_creatures_seed4.mp4 (stylized) / life_creatures_seed4_photo.mp4 (photo)."""
+import argparse, asyncio, os, subprocess, shutil, time
 from playwright.async_api import async_playwright
 OUT = "/workspace/nim_universe/out"; RES = os.path.join(os.path.dirname(__file__), "..", "results")
 async def main(a):
-    html = f"{OUT}/viewer_life_seed{a.seed}.html"; pre = f"{OUT}/life_surface_seed{a.seed}"
+    html = f"{OUT}/viewer_life_seed{a.seed}.html"; base = f"{OUT}/life_surface_seed{a.seed}"; done = []
     async with async_playwright() as p:
         b = await p.chromium.launch(executable_path="/usr/bin/google-chrome", args=["--use-gl=angle", "--use-angle=swiftshader", "--enable-unsafe-swiftshader", "--ignore-gpu-blocklist"])
         pg = await b.new_page(viewport={"width": 1280, "height": 720}); errs = []
@@ -15,19 +18,24 @@ async def main(a):
                  ("06_tech_lights", "NIM.setTime(2);NIM.view('surface',0,{dist:.14,az:2.2})")]
         plans = await pg.evaluate("(()=>{const o={}; NIM.creatures.forEach((c,i)=>{if(!(c.plan in o))o[c.plan]=i;}); return o;})()")
         shots += [(f"07_{pl}_closeup", f"NIM.setTime(4.3);NIM.view('creature',{i},{{dist:.022,az:.6}})") for pl, i in sorted(plans.items())]   # one hero closeup per body plan
-        print("triangles (all creatures):", await pg.evaluate("NIM.tris?NIM.tris():-1"), flush=True)
-        for n, js in shots:
-            await pg.evaluate(js); await pg.evaluate("NIM.render()"); await pg.screenshot(path=f"{pre}_{n}.png"); print("shot", n, flush=True)
-        if a.tour:
-            td = f"{OUT}/life_tour_seed{a.seed}"; os.makedirs(td, exist_ok=True); N = a.tour
+        shots += [(f"08_{pl}_macro", f"NIM.setTime(4.3);NIM.view('creature',{i},{{dist:.011,az:1.1}})") for pl, i in sorted(plans.items())]   # tight macro: skin/material detail
+        looks = ["stylized", "photo"] if a.look == "both" else [a.look]
+        for lk in looks:
+            await pg.evaluate(f"NIM.setLook('{lk}')"); pre = base + ("_photo" if lk == "photo" else "")
+            print(lk, "triangles (all creatures):", await pg.evaluate("NIM.tris?NIM.tris():-1"), flush=True)
+            for n, js in shots:
+                t0 = time.time(); await pg.evaluate(js); await pg.evaluate("NIM.render()"); await pg.screenshot(path=f"{pre}_{n}.png"); done.append(f"{pre}_{n}.png"); print("shot", lk, n, f"{time.time()-t0:.1f}s", flush=True)
+        for lk in (["stylized", "photo"] if a.tour_look == "both" else [a.tour_look]) if a.tour else []:
+            await pg.evaluate(f"NIM.setLook('{lk}')"); sfx = "_photo" if lk == "photo" else ""
+            td = f"{OUT}/life_tour_seed{a.seed}{sfx}"; os.makedirs(td, exist_ok=True); N = a.tour
             for i in range(N):
                 s = i/(N-1); d = 2.8*(1-s)**2 + .12  # orbit in, then ride along creature 0's herd
                 await pg.evaluate(f"NIM.setTime({3+i*.12});NIM.view('surface',0,{{dist:{d},az:{s*2.5}}})"); await pg.screenshot(path=f"{td}/f{i:04d}.png")
-            subprocess.run(["ffmpeg", "-y", "-loglevel", "error", "-framerate", "24", "-i", f"{td}/f%04d.png", "-c:v", "libx264", "-pix_fmt", "yuv420p", "-crf", "20", f"{OUT}/life_creatures_seed{a.seed}.mp4"], check=True)
+            subprocess.run(["ffmpeg", "-y", "-loglevel", "error", "-framerate", "24", "-i", f"{td}/f%04d.png", "-c:v", "libx264", "-pix_fmt", "yuv420p", "-crf", "20", f"{OUT}/life_creatures_seed{a.seed}{sfx}.mp4"], check=True); done.append(f"{OUT}/life_creatures_seed{a.seed}{sfx}.mp4")
         print("errors:", len(errs), errs[:5]); await b.close()
-    for n, _ in shots: shutil.copy(f"{pre}_{n}.png", RES)       # all stills (01-07) -> results/
-    if a.tour: shutil.copy(f"{OUT}/life_creatures_seed{a.seed}.mp4", RES)
+    for f in done: shutil.copy(f, RES); print("wrote", f)       # all stills + mp4s -> results/
 if __name__ == "__main__":
     ap = argparse.ArgumentParser(); ap.add_argument("--seed", type=int, default=4); ap.add_argument("--tour", type=int, default=0)
+    ap.add_argument("--look", choices=["stylized", "photo", "both"], default="both"); ap.add_argument("--tour-look", dest="tour_look", choices=["stylized", "photo", "both"], default="stylized")
     ap.add_argument("--herd2", type=int, default=30); ap.add_argument("--c1", type=int, default=0); ap.add_argument("--c2", type=int, default=40)
     asyncio.run(main(ap.parse_args()))

diff --git a/universe/leaves/life_loop.py b/universe/leaves/life_loop.py
@@ -113,7 +113,7 @@ class HabitatRun:
             for d in inds:
                 if trail_max and d.get("trail"): d["trail"] = d["trail"][-int(trail_max):]
                 else: d.pop("trail", None)
-            crs = [{kk: c[kk] for kk in ("id", "lat", "lon", "species_id", "plan", "size", "limbs", "segments", "shell", "shell_k", "color", "accent", "glow", "speed", "wobble",
+            crs = [{kk: c[kk] for kk in ("id", "lat", "lon", "species_id", "plan", "size", "limbs", "segments", "shell", "shell_k", "color", "accent", "glow", "morph", "speed", "wobble",
                                           "phase", "heading", "traits", "generation", "age", "energy", "parent_id", "parent2_id", "trail") if kk in c}
                    for c in CL.creatures_from_individuals(inds, seed, flux.to_dict(), self.h.ptype, max_show)]
         cd = cu.to_dict() if self.culture else {}

diff --git a/README.md b/README.md
@@ -118,6 +118,9 @@ New knobs: `sex_rate`, `climate_drift`, `impact_refuge`.
 
 **Visual upgrade (viewer-only; sim physics untouched).** Creature meshes now come from one shared builder, `viewer_src/creature_mesh.js` (`NIMC`), injected ahead of both `life.js` and `life_live.js`, so the static and live viewers stay in sync. Swimmers have a smooth lathe body with countershading, a 3-link spine plus a forked fluke (travelling-wave undulation), membrane fins, gills, eyes, and a mouth. Crawlers have smooth segments, two-joint legs with an alternating stance/swing gait, antennae, and mandibles. Flyers have two-part membrane wings with a lagging outer flap, a tail fan, and a beak. Floaters have a translucent frilled lathe bell with a quick-contract/slow-relax pulse, a glowing core, and 4-link trailing tentacles. Shells become dorsal carapace plates with ridges and paired spines. Materials are physical by plan: wet clearcoat swimmers, dusty rough crawlers, membranous flyers, glassy floaters. Bioluminescence adds emissive photophores and a two-layer halo. Lighting uses ACES tone mapping, a PMREM sky environment for specular, a warm key, a cool rim, and hemisphere fill. The ocean gets a fresnel sheen and a broad glint (`uWet`, off in the gallery). Each creature has a blob contact shadow. Tech towers have lit window bands, a beacon, and a ground light pool. Real shadow maps are **not** enabled: with planet-scale geometry and swiftshader capture, a tight shadow frustum per view costs too much. About 270k creature triangles for 64 creatures (~4k each).
 
+**Richer phenotypes + togglable photoreal look (Phase B; viewer-only).** `leaves/creature_look.py` now adds a `morph` dict of continuous fields to every phenotype: `elong`, `girth`, `head`, `eye`, `fin`, `seg_space`, `seg_taper`, `wing_span`, `wing_aspect`, `tail`, `shell_ridges`, `shell_dome`, `spines`, `tent_len`, `bell_flat`, `stripe`, `stripe_freq`, `spot`, and `skin_detail`. Traits set the trend: mobility drives elongation, fins, wing span/aspect, and segment spacing; metabolism drives head, girth, and tentacle length; hardiness drives shell ridges, dome, spines, and skin detail; reproduction drives segment taper. When a `species_id` is given (literal-individual reports and the live stream), the plan, palette, limb/segment counts, and the morph "family" come from a per-species RNG. The individual-id RNG adds only about 5% jitter, a small hue shift, and size variation, so herds look related. Old reports and data without `morph` fall back to the `MD` defaults in `creature_mesh.js`. Physics is untouched. `creature_mesh.js` uses the morphs for body length and girth, spine-link spacing, fin, tail, and antenna scale, crawler segment spacing, taper, and head size, wing span and aspect, carapace dome, ridge count, and spine length, bell flatness, tentacle length, and dorsal stripes or mottling baked into the vertex colours.
+Look toggle: the default is `stylized` (Phase A). `photo` uses the same rig with about 1.9× tessellation and MeshPhysicalMaterial with procedural canvas-generated normal and roughness maps (skin pores, crawler scales, membrane veins, shell scutes), clearcoat on wet plans, sheen on dry ones, a brighter emissive "SSS-ish" glow, and a slightly hotter exposure. No external assets. To switch: open the HTML with `?look=photo`, press **P**, click the top-right `look:` HUD button, or call `NIM.setLook('photo'|'stylized')`. This works in both `viewer_life` and the live viewer. Capture: `python -m universe.viewer_life_shots --seed 4 --look both --tour 72 --tour-look both`. Stylized stills keep the `life_surface_seed4_NN_*.png` names, photo stills are `life_surface_seed4_photo_NN_*.png`, and the videos are `life_creatures_seed4.mp4` and `life_creatures_seed4_photo.mp4`. 64 creatures come to about 266k triangles stylized and about 540k photo. Both render under swiftshader at about 2–8 s per still.
+
 ## Planet gen + abiogenesis (imperfection fixes 4)
 
 Seed scan 0–19 (40 kyr, dt 20, defaults): **4/20 → 12/20** with life.
